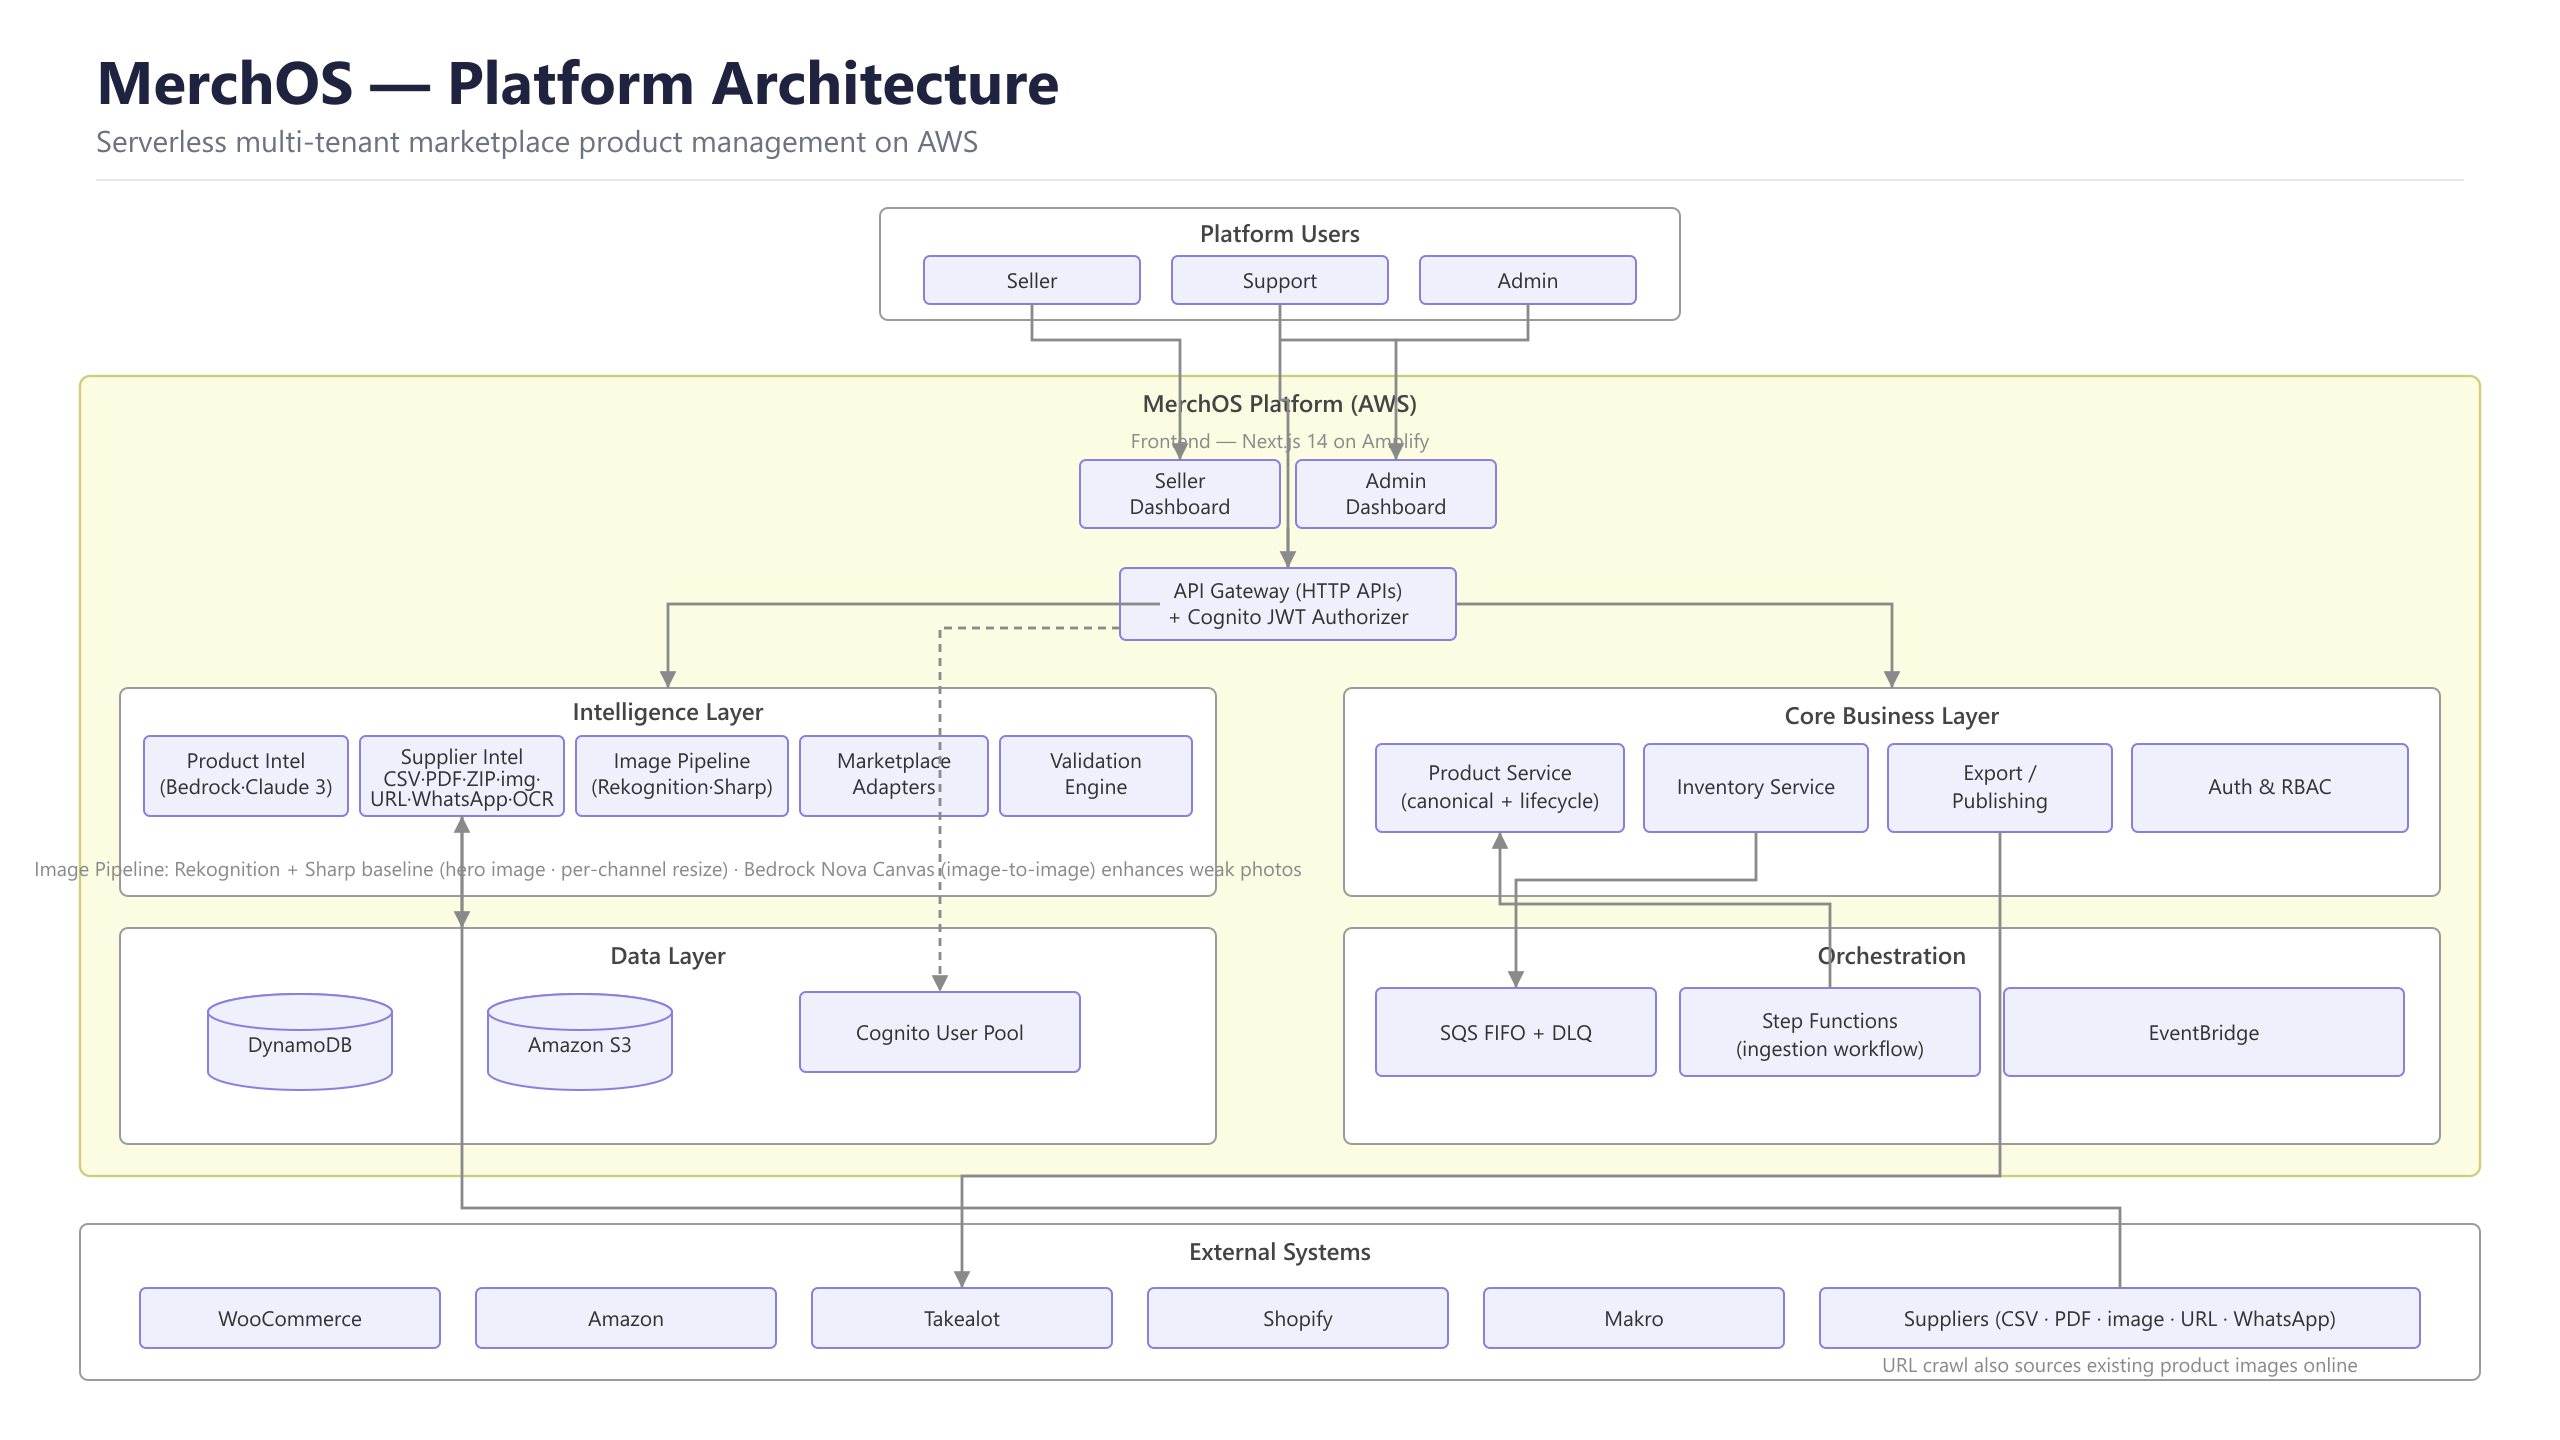
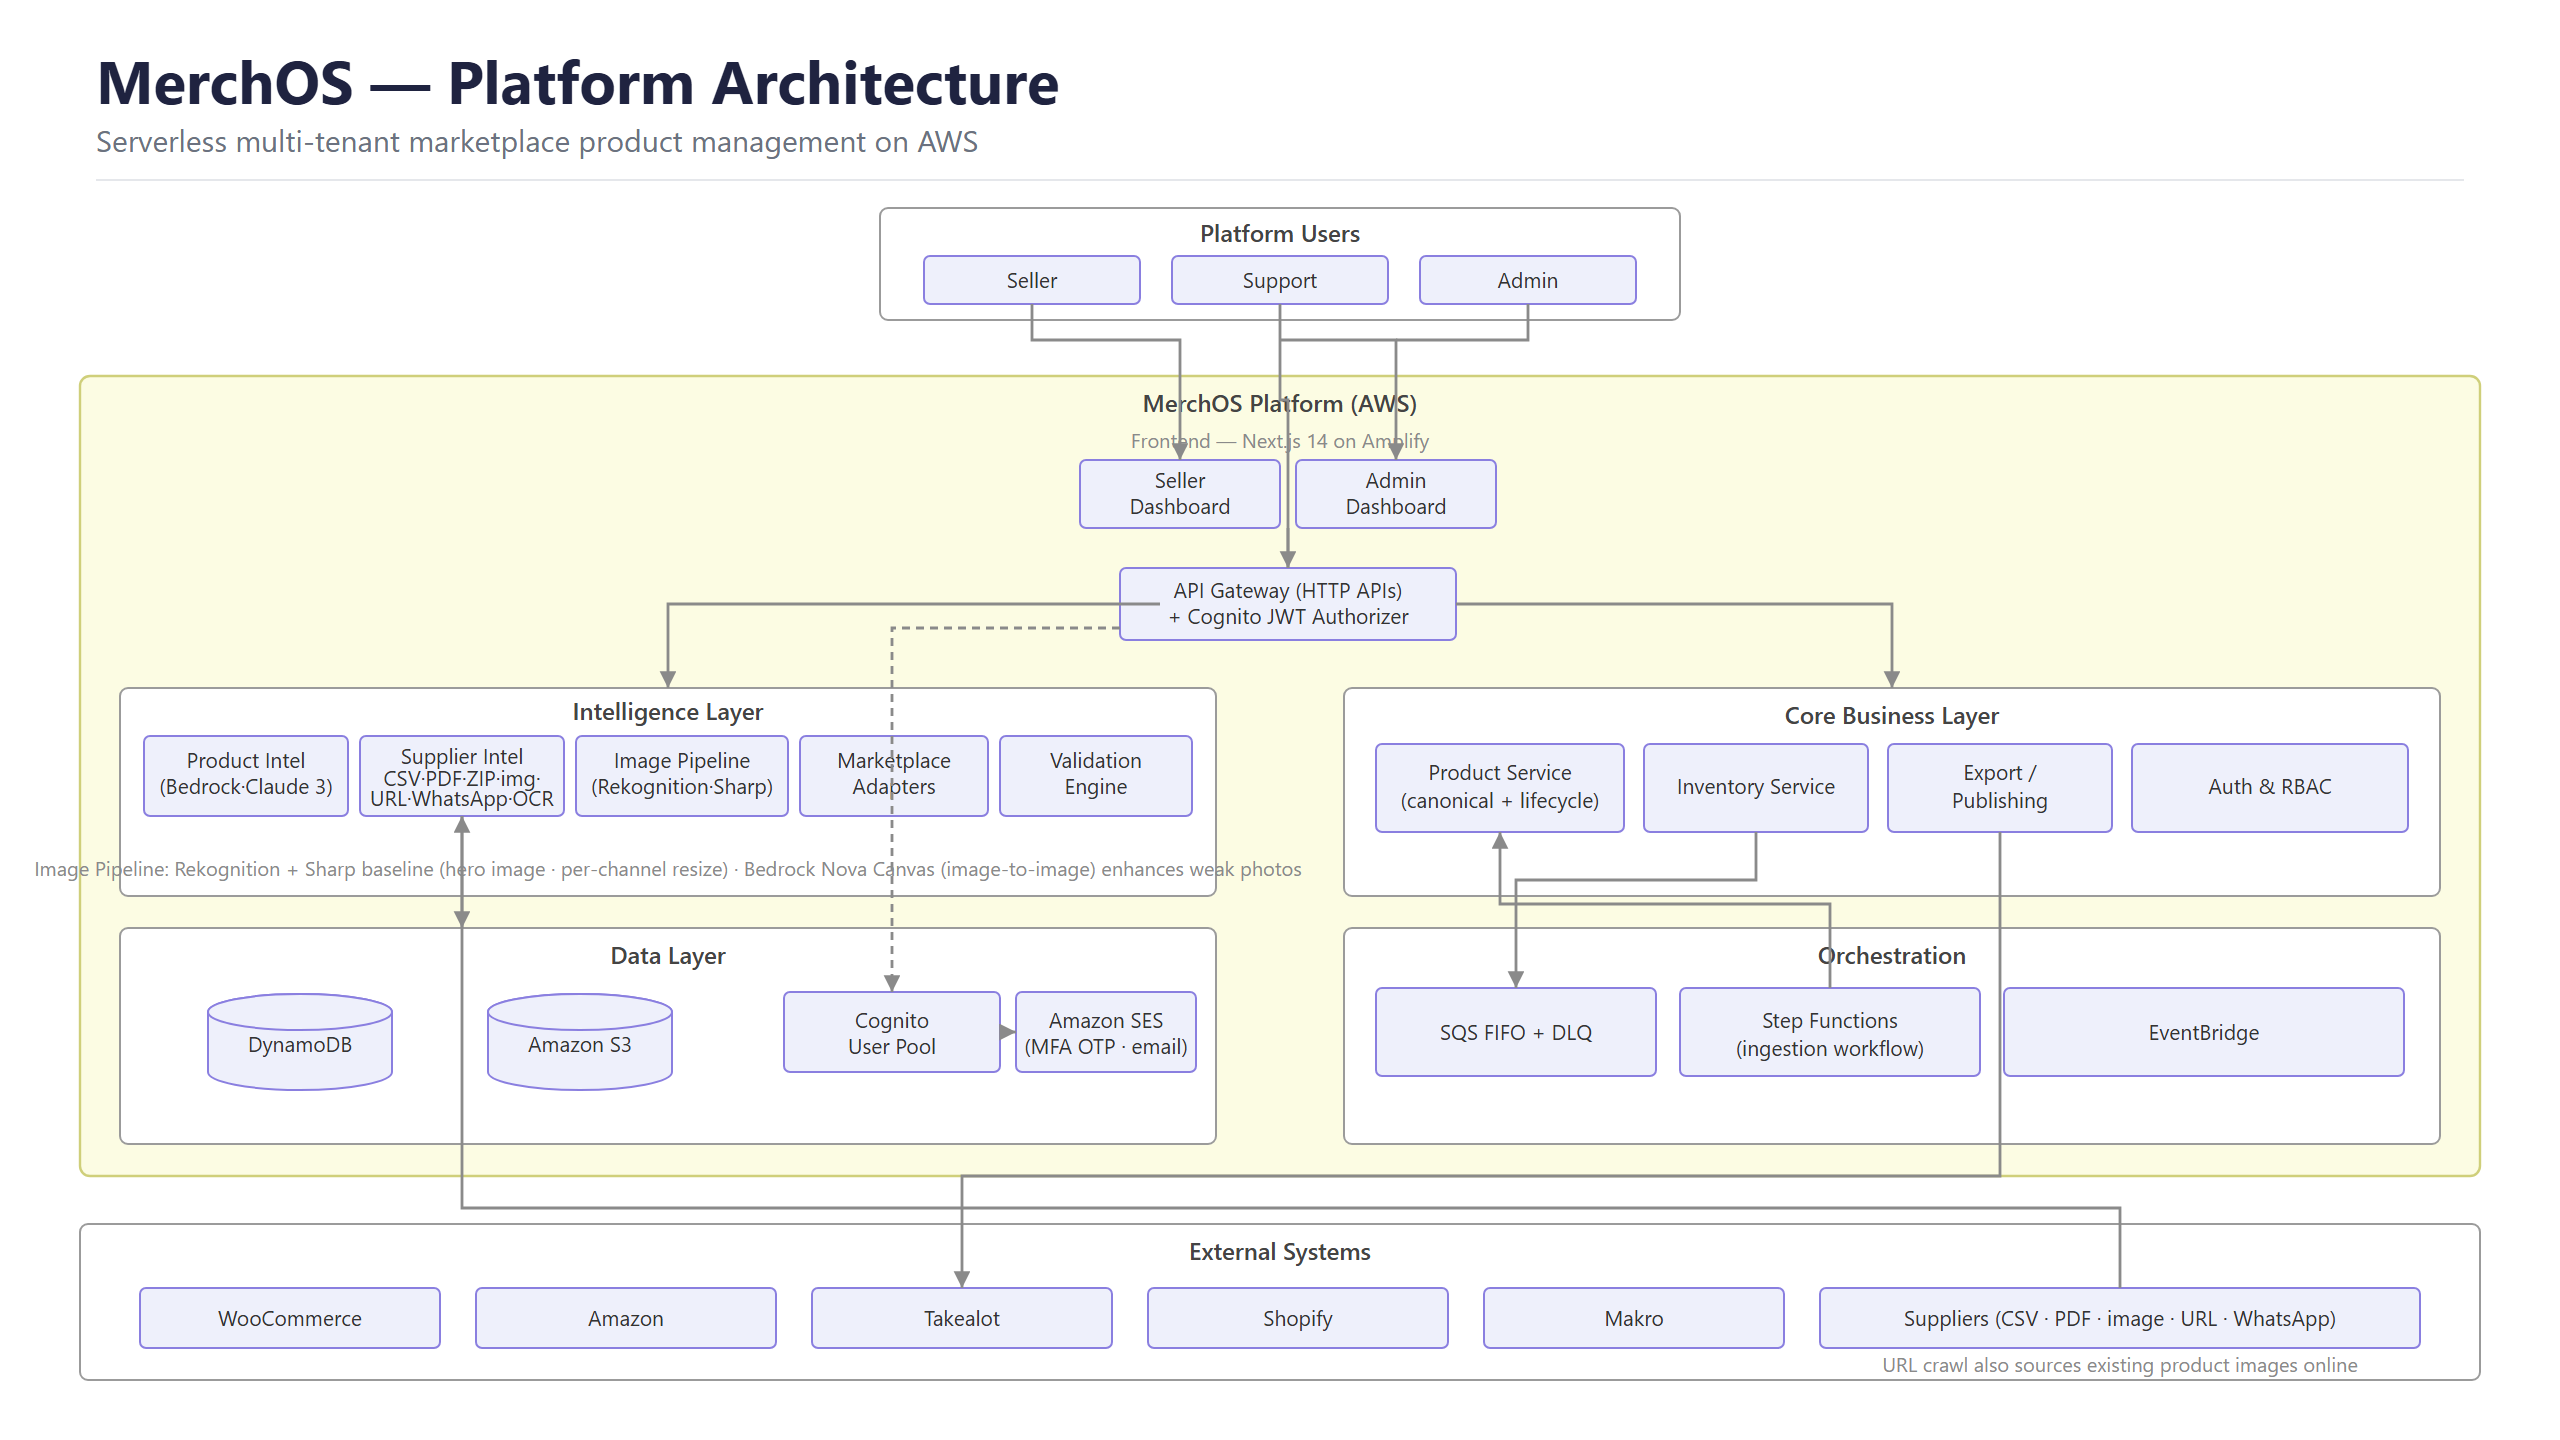
docs(architecture): add Amazon SES to platform architecture (#42)
Cognito now sends MFA one-time passwords and verification email via Amazon SES
(withSES, sender MerchOS <admin@merchos.co.za>, eu-west-1). Reflect this in the
architecture assets:

- Slide (SVG + regenerated 2560x1440 PNG): add an 'Amazon SES (MFA OTP · email)'
  box in the Data Layer with a Cognito -> SES connector.
- Blueprint Mermaid topology: add SES node in Identity & Access with a
  'Cognito -> MFA OTP & verification email -> SES' edge.
- Blueprint prose: new 'Email delivery & MFA (Amazon SES)' subsection documenting
  the split-MFA model (sellers email OTP, admins TOTP) and as-built notes
  (SES sandbox, Threat Protection AUDIT).

diff --git a/docs/architecture/merchos-blueprint.md b/docs/architecture/merchos-blueprint.md
@@ -39,6 +39,19 @@ Amazon Cognito is the **sole Identity Provider** for the MerchOS platform. All u
 
 The platform uses a **single Cognito User Pool** containing all platform users regardless of their Platform Role. Admins, Support staff, and Sellers all reside in the same User Pool. This design simplifies user management, provides a single authentication endpoint, and enables role assignment through Cognito Groups without requiring separate authentication infrastructure per role.
 
+#### Email delivery & MFA (Amazon SES)
+
+Cognito sends all account email — MFA one-time passwords, address verification, and admin-initiated messages — through **Amazon SES** (configured via `UserPoolEmail.withSES`, sender `MerchOS <admin@merchos.co.za>`, region `eu-west-1`). SES is the email transport only; it is not an identity provider.
+
+Multi-factor authentication follows a **split model** (ADR-005):
+
+- **Sellers** use **email OTP** as their second factor — low onboarding friction, since the seller's email is already verified at registration. Cognito emails a 6-digit code via SES on each login.
+- **Admins** use **TOTP** (authenticator app) only — no email fallback, to avoid an MFA-downgrade path on privileged accounts.
+
+Which factor applies is enforced at the application layer; the pool enables both TOTP and email OTP as available second factors.
+
+> **Note (as-built):** SES currently operates in the **sandbox** — only verified recipient addresses receive mail. Production access (sandbox exit) is required before unverified sellers can receive OTPs. Cognito Threat Protection is set to **AUDIT** (detects and logs risk without blocking); restoring **ENFORCED** requires wiring Amplify advanced-security user-context collection in the SPAs.
+
 ### 1.3 App Client Configuration
 
 The User Pool is configured with **three App Clients**, one per authentication surface. All clients issue JWTs containing the claims required for downstream authorization (`sub`, `custom:tenantId`, and `cognito:groups`); they differ only in flow and secret configuration.
@@ -1110,6 +1123,7 @@ graph TB
 
     subgraph Auth["Identity & Access"]
         Cognito[Amazon Cognito<br/><i>Single User Pool</i>]
+        SES[Amazon SES<br/><i>Email delivery</i>]
     end
 
     subgraph Gateway["API Layer"]
@@ -1141,6 +1155,7 @@ graph TB
     SP -->|Authenticate| Cognito
     Cognito -->|Issue JWT| AP
     Cognito -->|Issue JWT| SP
+    Cognito -->|MFA OTP & verification email| SES
 
     AP -->|Bearer JWT| APIGW
     SP -->|Bearer JWT| APIGW
